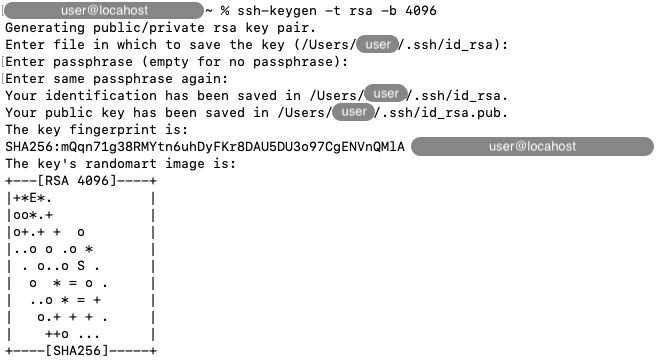
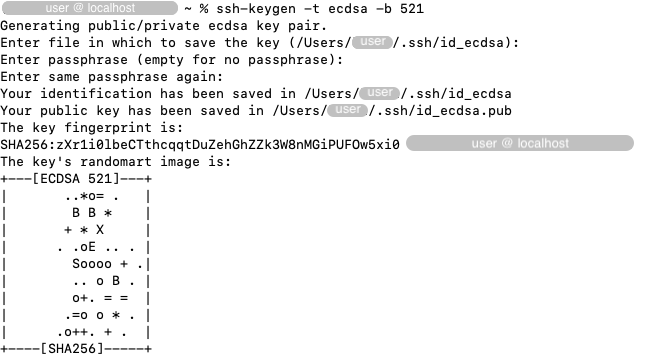
update screenshot

diff --git a/content/en/docs/connect/ssh-configuration/ssh-key-pair/index.md b/content/en/docs/connect/ssh-configuration/ssh-key-pair/index.md
@@ -32,13 +32,13 @@ To create the SSH key pair, open a Terminal session on your personal computer
 (i.e., not logged into the CCB cluster), and type:
 
 ```bash
-ssh-keygen -t ecdsa -b 512
+ssh-keygen -t ecdsa -b 521
 ```
 
 In particular:
 
 - The option `-t ecdsa` is important to specify the type of SSH key pair.
-- The option `-b 512` indicates the number of bits in the key; a minimum of 2048
+- The option `-b 521` indicates the number of bits in the key; a minimum of 2048
 is recommended, while larger values generally give additional strength to the
 key.
 
